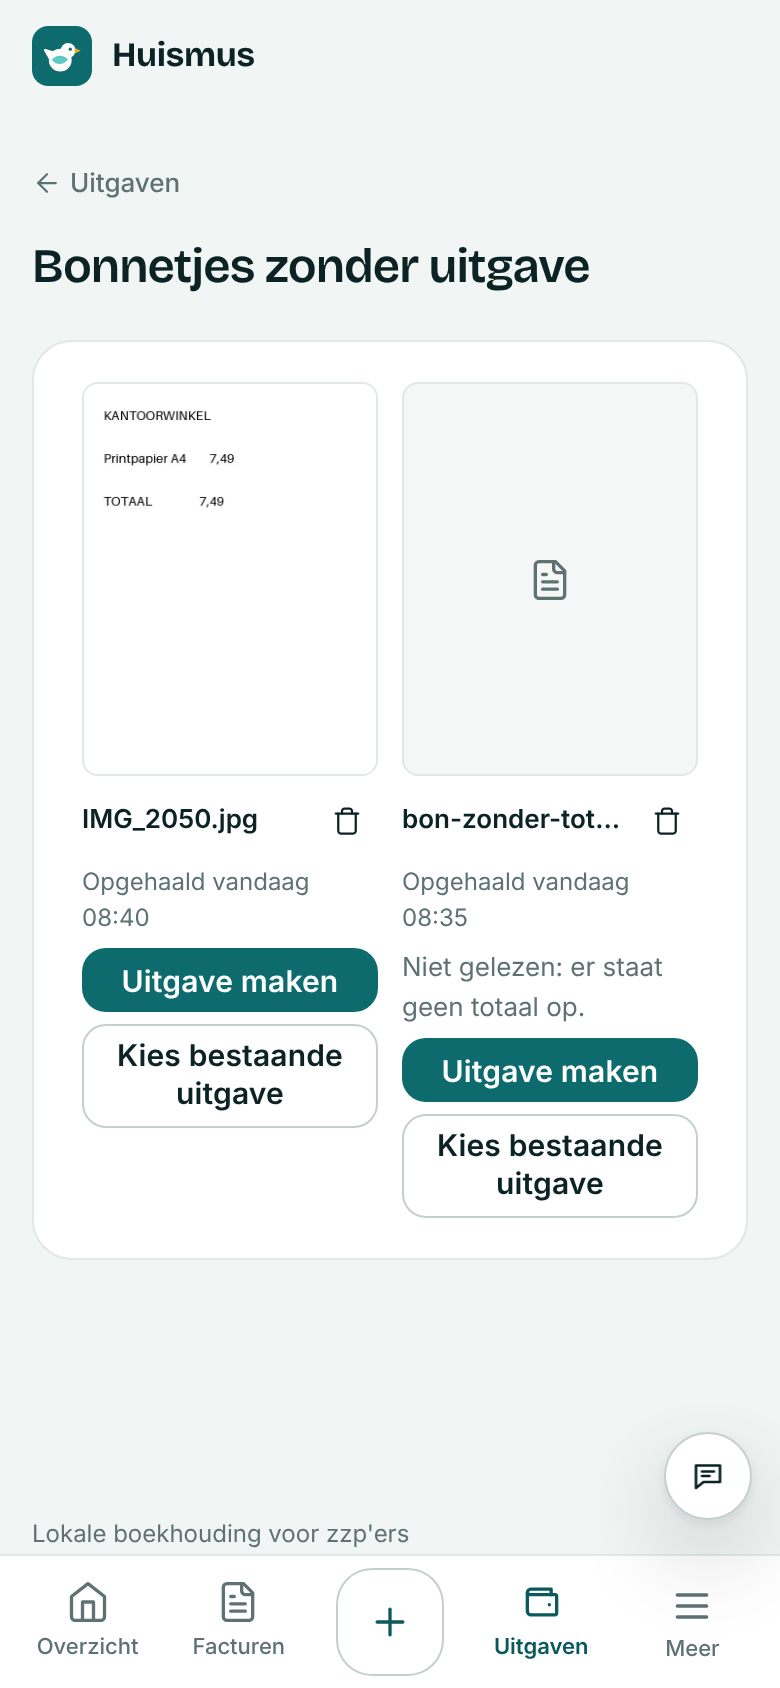
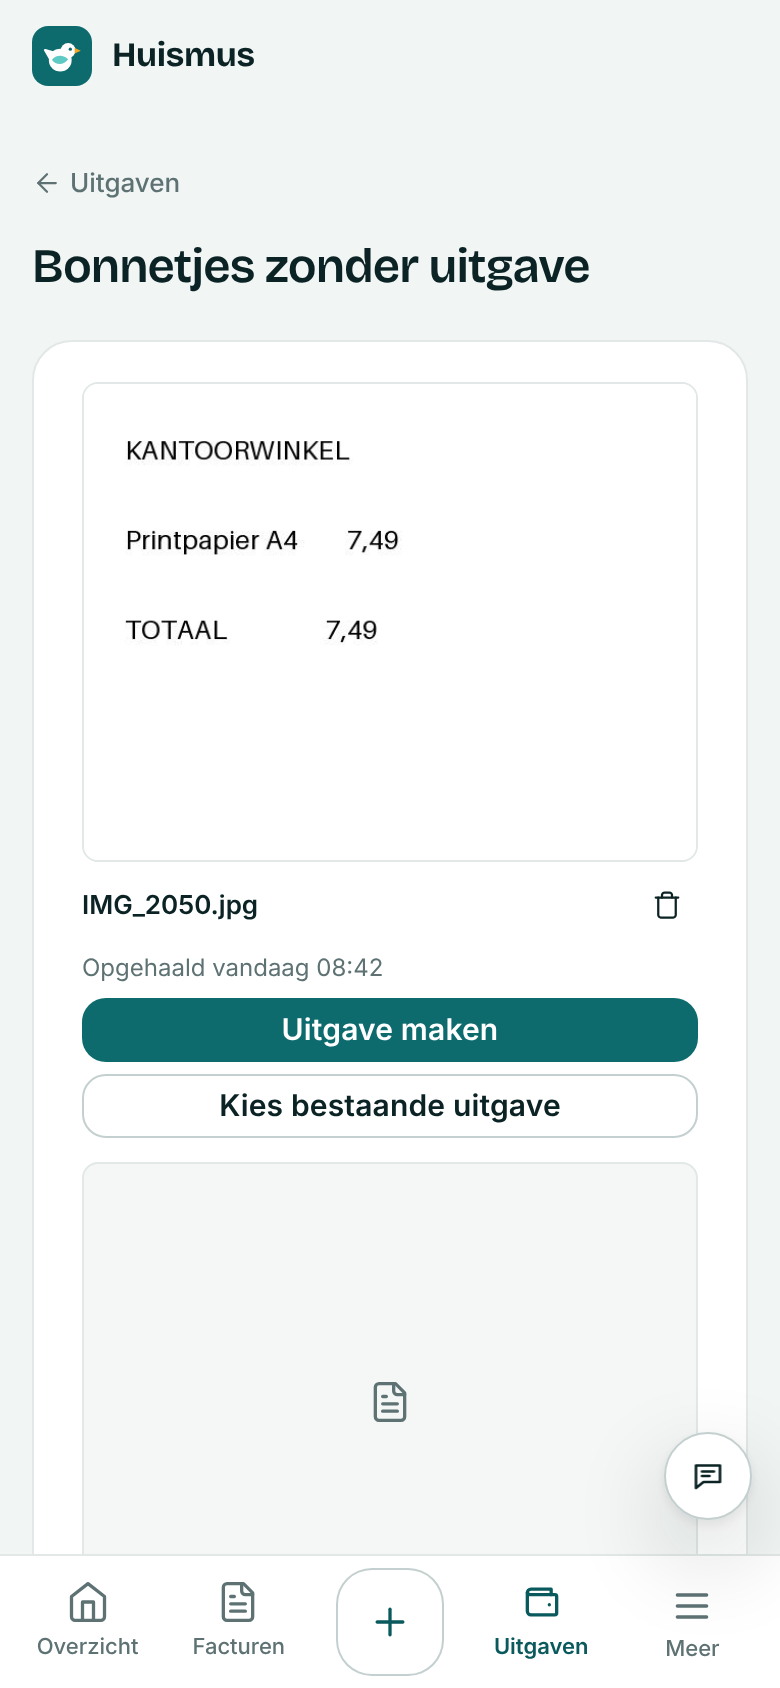
fix(expenses): wider receipts in the tray, so both buttons fit on one line (#127)
One per row on a phone with the thumbnail at most 240px high; the owner's
choice over a shorter label.

Claude-Session: https://claude.ai/code/session_01W6o7JLSYoazZgMCi8zzGBm

diff --git a/huismus/templates/expenses/tray.html b/huismus/templates/expenses/tray.html
@@ -33,12 +33,12 @@
 {% endif %}
 {% if receipts %}
 <section class="card card-pad">
-    {% comment %}Narrower than on an expense, so a phone shows two side by side.{% endcomment %}
-    <div class="receipts" style="grid-template-columns:repeat(auto-fill,minmax(120px,1fr))">
+    {% comment %}Wide enough for "Kies bestaande uitgave" on one line (owner, 2026-11-23): one per row on a phone, the thumbnail then no higher than 240px.{% endcomment %}
+    <div class="receipts" style="grid-template-columns:repeat(auto-fill,minmax(210px,1fr))">
         {% for item in receipts %}{% with receipt=item.receipt %}
         <div class="receipt" id="bonnetje-{{ receipt.pk }}">
             {% blocktranslate with name=receipt.filename asvar receipt_label %}Bonnetje {{ name }}{% endblocktranslate %}
-            <a class="thumb" href="{{ receipt.file.url }}" hx-boost="false" target="_blank" rel="noopener" data-view-receipt="bonnetje-bekijken" data-name="{{ receipt.filename }}" data-label="{{ receipt_label }}"{% if receipt.is_pdf %} data-pdf{% endif %} aria-label="{% blocktranslate with name=receipt.filename %}{{ name }} openen{% endblocktranslate %}">
+            <a class="thumb" style="max-height:240px" href="{{ receipt.file.url }}" hx-boost="false" target="_blank" rel="noopener" data-view-receipt="bonnetje-bekijken" data-name="{{ receipt.filename }}" data-label="{{ receipt_label }}"{% if receipt.is_pdf %} data-pdf{% endif %} aria-label="{% blocktranslate with name=receipt.filename %}{{ name }} openen{% endblocktranslate %}">
                 {% if receipt.is_pdf %}<svg class="i i-lg" aria-hidden="true"><use href="#file"></use></svg>
                 {% else %}<img src="{{ receipt.file.url }}" alt="" style="width:100%;height:100%;object-fit:cover">{% endif %}
             </a>
@@ -50,7 +50,7 @@
             {% if item.waiting %}<span class="small muted row" style="gap:var(--s-1)" data-bonnetje-bezig>{% include "core/_bird.svg" %}{% translate "Huismus leest dit bonnetje…" %}</span>
             {% elif item.reason %}<span class="small muted" data-bonnetje-reden>{% if receipt.read_similar %}<a href="{% url 'expenses:edit' receipt.read_similar.pk %}">{{ item.reason }}</a>{% else %}{{ item.reason }}{% endif %}</span>{% endif %}
             <a class="btn btn-primary btn-sm" href="{% url 'expenses:process_item' 'bonnetje' receipt.pk %}">{% translate "Uitgave maken" %}</a>
-            <a class="btn btn-secondary btn-sm" style="white-space:normal;height:auto;min-height:32px;padding-block:6px;line-height:1.25;text-align:center" href="{% url 'expenses:tray_attach' receipt.pk %}">{% translate "Kies bestaande uitgave" %}</a>
+            <a class="btn btn-secondary btn-sm" href="{% url 'expenses:tray_attach' receipt.pk %}">{% translate "Kies bestaande uitgave" %}</a>
         </div>
         <dialog class="dialog" id="verwijder-bon-{{ receipt.pk }}" aria-labelledby="verwijder-bon-{{ receipt.pk }}-titel">
             <form method="post" action="{% url 'expenses:tray_delete' receipt.pk %}">
